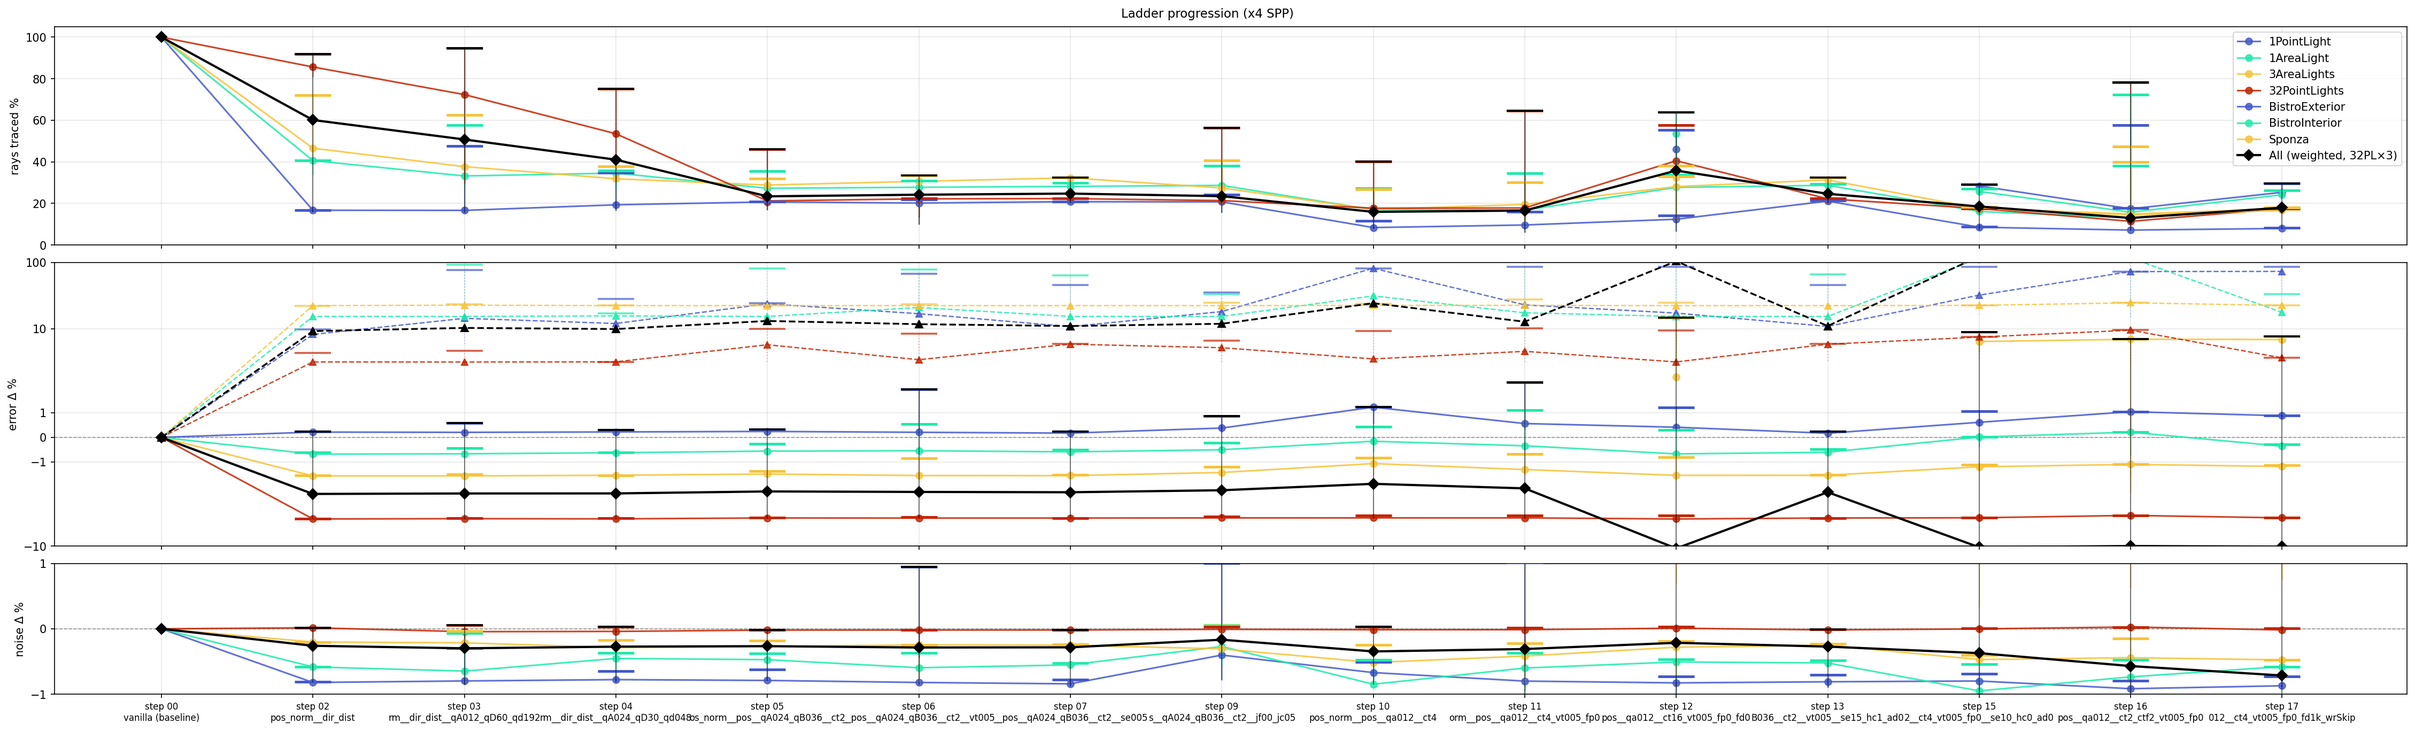
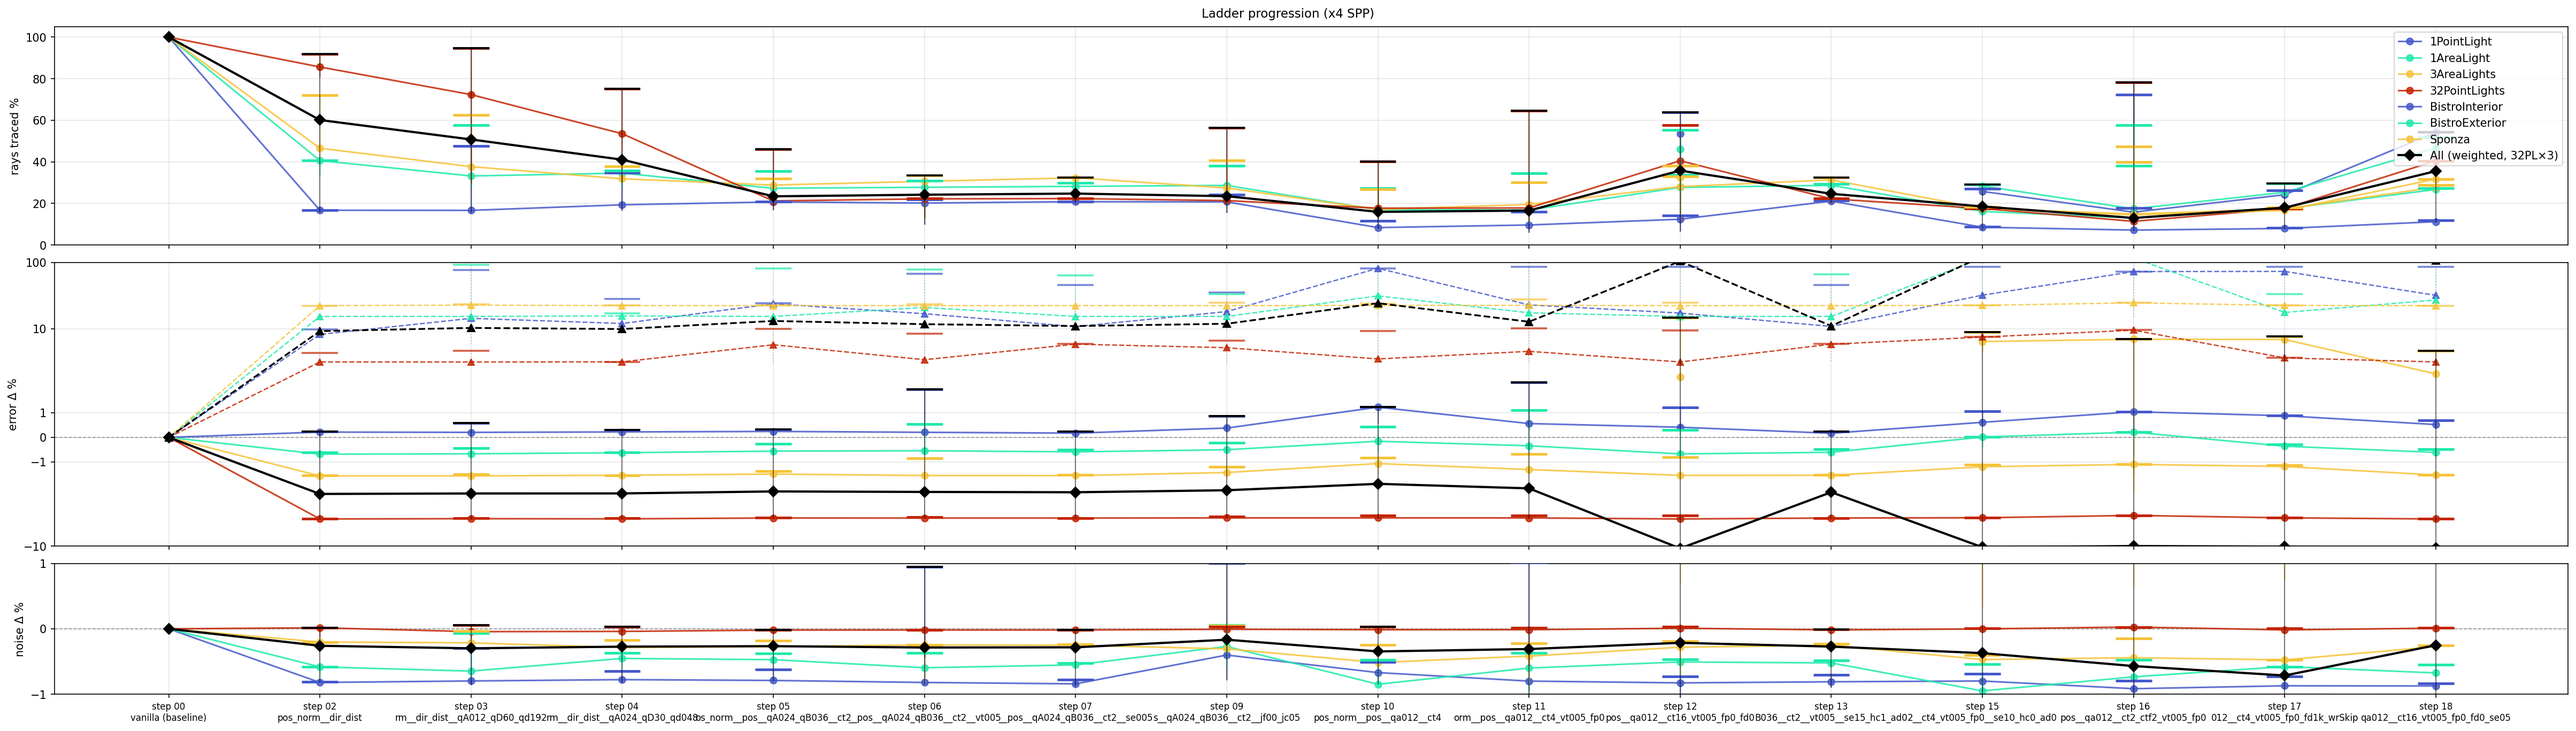
Step 18: stderr × ct16+w2 does not stack — negative result
Tested whether step-7 stderr=0.05 (single-level winner) combines with
step-12 ct16+w2 (multi-level carry). 2 variants × 6 spp/wf × 7 scenes.

Gate is too volatile: 1PL x4 w2 blob drops 86→32 (the known stderr win),
but 1AL x16 w2 blob explodes 31→117 and 1PL x4 w1 regresses 20→72.
Sponza x4 shows a small error-delta win (+4.65%→+2.58%), the only
multi-SPP positive outside Cornell 1PL.

No carry. Step-12 qa012__ct16_vt005_fp0_fd0 remains the multi-level
reference. Stderr confirmed as single-level-only lever — at ct=16 the
tight stderr bound lets correlated-sample-biased cells through unchecked,
matching the known x16 correlation pathology.

diff --git a/docs/devlog/DEVLOG.md b/docs/devlog/DEVLOG.md
@@ -548,6 +548,33 @@ v2 eliminated v1's catastrophic 1AL regression (blob 117 → 33 at fd=4096). `fd
 
 ---
 
+## Step 18 — stderr × ct16+w2 stack test — negative result
+
+**What it looks at.** Steps 7 and 12 identified the two best single-knob levers found so far: step 7's stderr-gate (single-level, ct=4) and step 12's ct16+w=2 carry (multi-level, no stderr). They had never been combined — step 15's stderr sweep used ct=4, step 12 had no stderr. This step is minimal: 2 variants × 6 (spp × wf) × 7 scenes, asking "does stderr=0.05 stack with the ct16 carry or not?"
+
+Variants: `ct16_vt005_fp0_fd0_se0` vs `ct16_vt005_fp0_fd0_se05`. Everything else matches step 12 exactly.
+
+**Result — volatile, does not stack cleanly.** Selected spp/wf per scene (error blob Δ vs se=0):
+
+| scene | x4 w2 | x16 w2 | x1 w2 | x4 w1 | x16 w1 |
+|---|---:|---:|---:|---:|---:|
+| 1PL | **−54 (win)** | −0 | +28 (loss) | +52 (loss) | +0 |
+| 1AL | −0 | **+86 (loss)** | +18 (loss) | +0 | +13 (loss) |
+| 3AL / 32PL | ±0 | ±0 | ±0 | ±0 | ±0 |
+| Bistro / Sponza | ±0 | ±0 | ±0 | ±0 | +0 |
+
+**Key finding — the 1PL x4 w2 blob does drop from 85.84 → 31.85** (the same scene/spp that step 7 identified as stderr's signature win). But that win comes paired with a catastrophic **1AL x16 w2** regression (blob 31.12 → 117.05) and a symmetric 1PL x1 w2 loss (30 → 58). Sponza x4 shows a small error-Δ improvement (+4.65% → +2.58%) — the only multi-SPP win outside Cornell 1PL.
+
+**Interpretation.** The stderr gate is too volatile to carry: its direction (help/hurt) flips depending on which scene × spp × wf cell the gate fires on. At low-contributor counts (boot phase) the gate rejects real but noisy cells; at high-contributor-count but still-wrong cells (1AL x16 w2) it lets bad μ's through because stderr is artificially tight from correlated samples. This matches the known x16 sample-correlation pathology — stderr confidence is a lie when contributing samples are correlated (`memory/project_cell_mean_defenses.md`).
+
+**Why we narrow.** No carry — step-12 `qa012__ct16_vt005_fp0_fd0` remains the multi-level reference. The stderr gate is confirmed as a single-level lever only; at multi-level with ct=16 it is a net wash with unacceptable worst-case regressions.
+
+Details in `captures/ladder/18/picks.json`.
+
+![](step18/overview_summary_18.png)
+
+---
+
 **Next frontier** (in `memory/project_cell_mean_defenses.md`): correlation-specific defenses — per-cell writer-source diversity tracking (refuse trust if too few distinct pixels have contributed) or split-halves agreement (two independent accumulators per cell, trust iff their μ's agree).
 
 **Big-scene supplement (Bistro + Sponza)**
